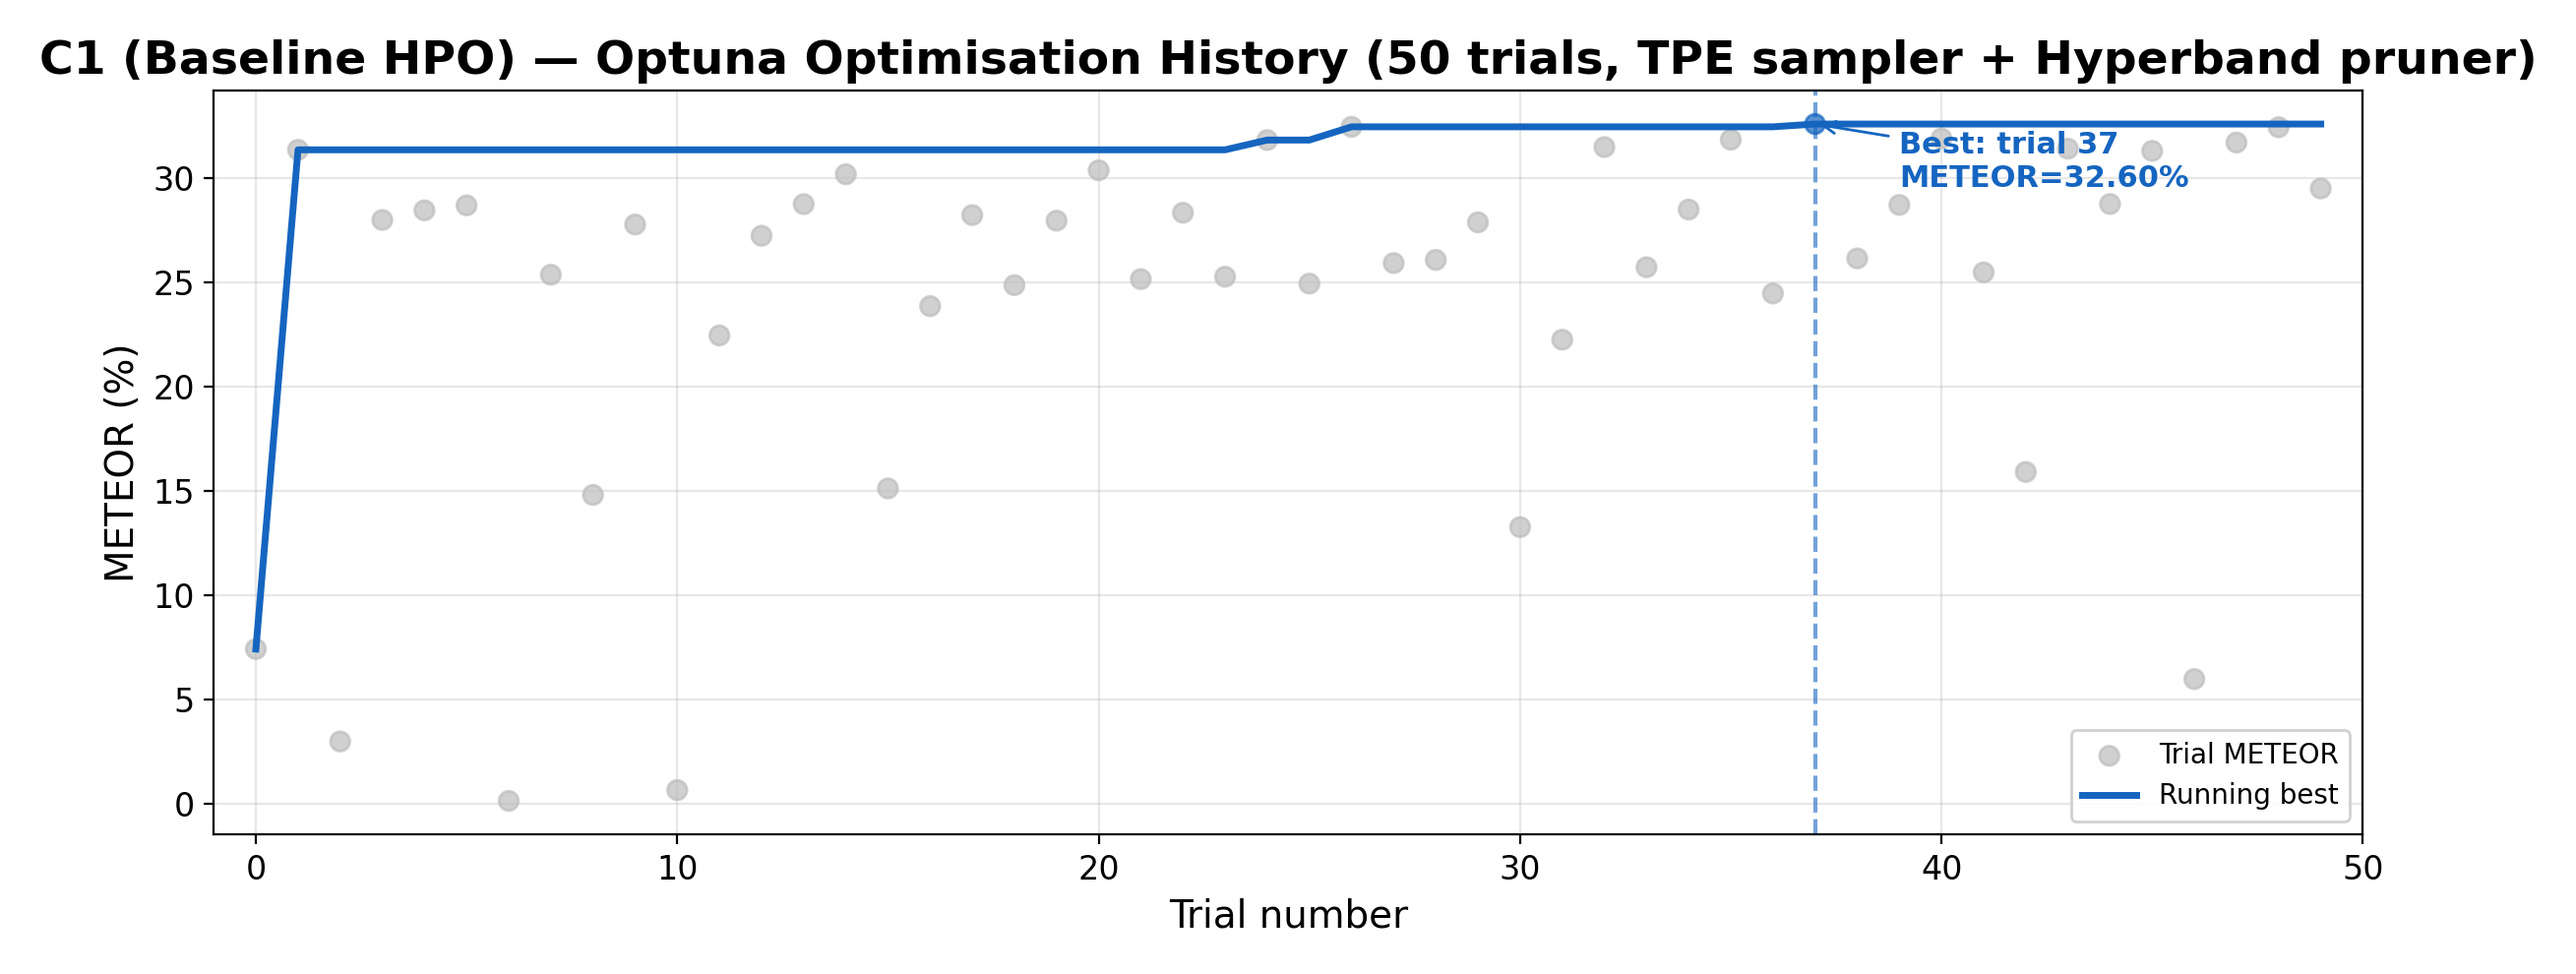
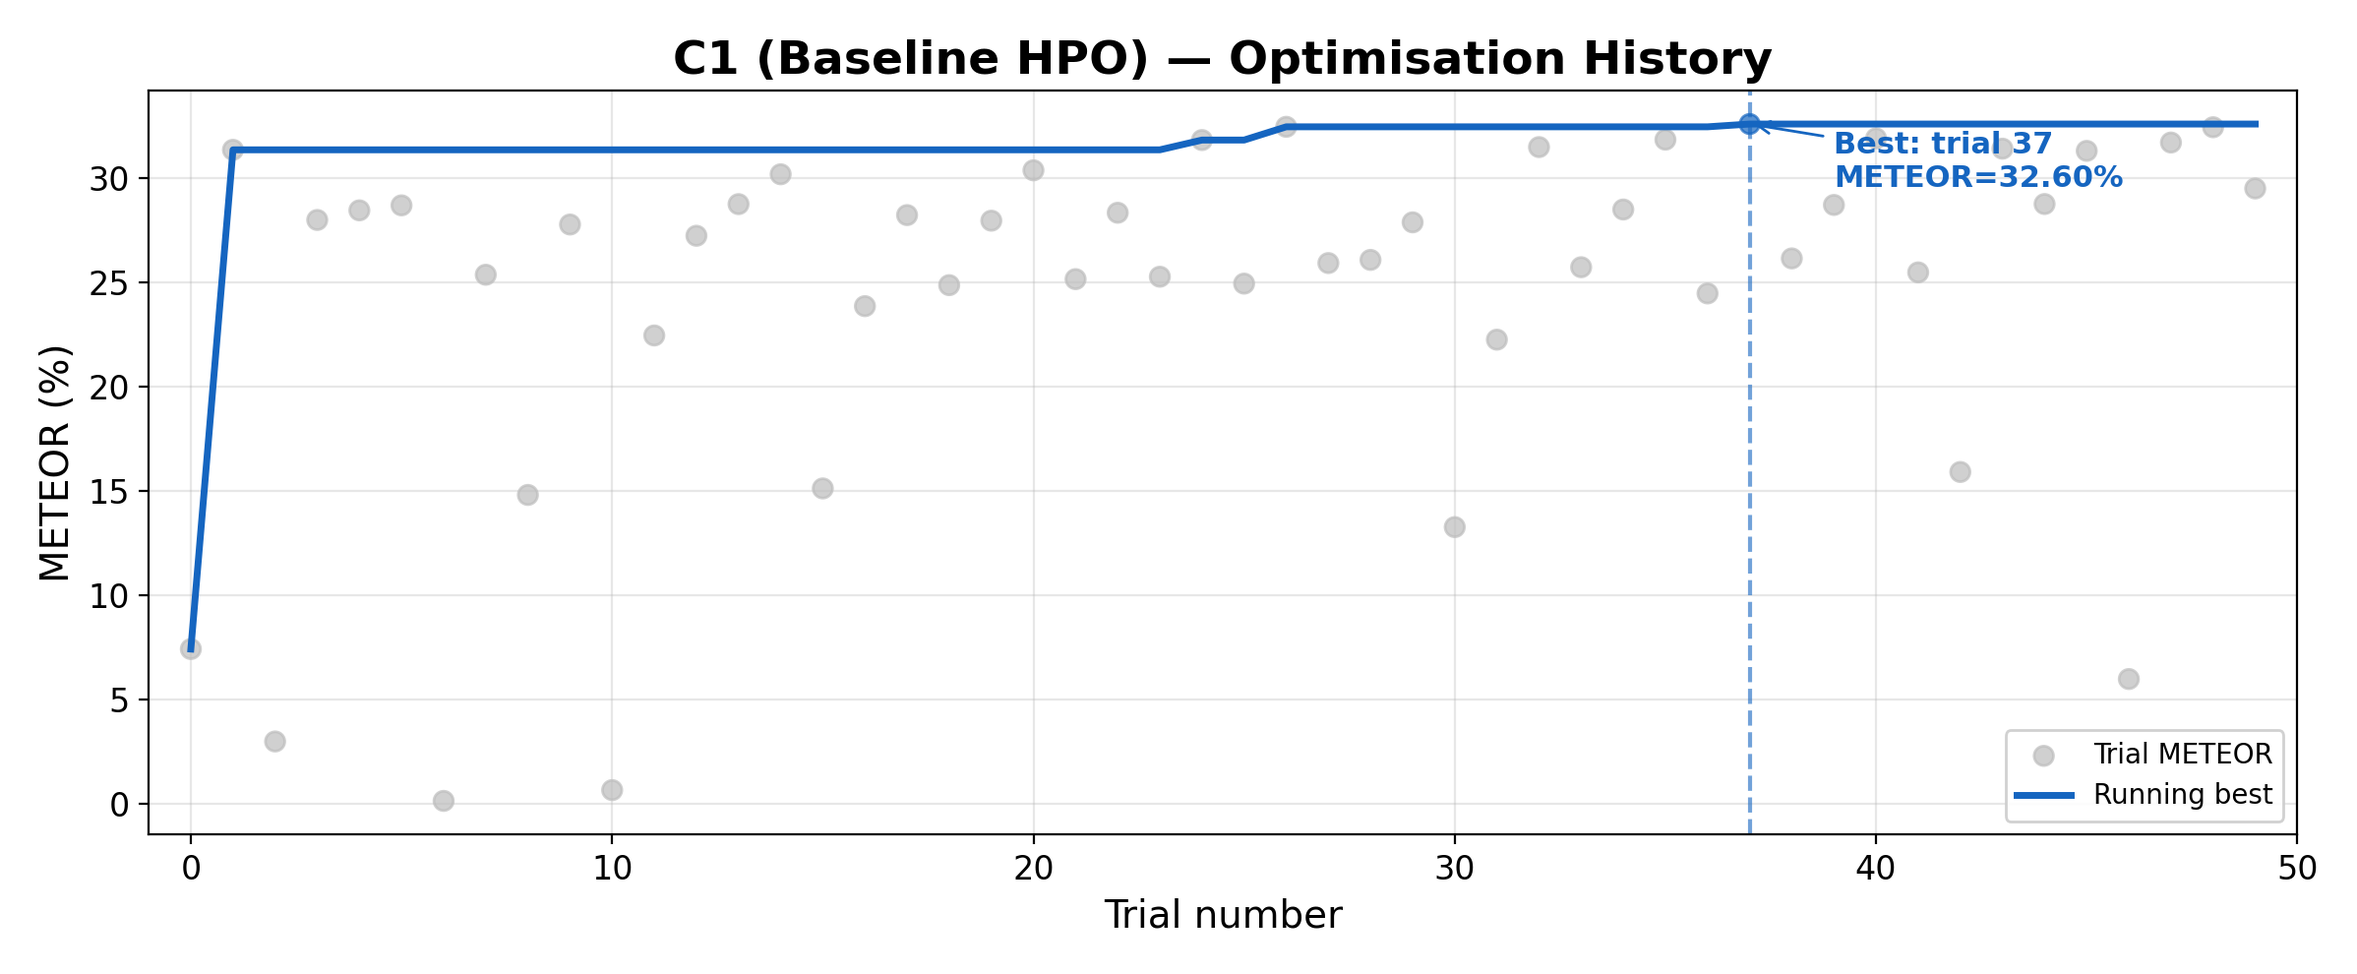
feat: update plots

diff --git a/src/generate_hpo_plots.py b/src/generate_hpo_plots.py
@@ -292,7 +292,7 @@ def plot_hpo_history(trials: list[dict], study_name: str, best_trial: int,
 
     ax.set_xlabel("Trial number")
     ax.set_ylabel("METEOR (%)")
-    ax.set_title(f"{study_name} — Optuna Optimisation History (50 trials, TPE sampler + Hyperband pruner)")
+    ax.set_title(f"{study_name} — Optimisation History")
     ax.legend(loc="lower right", fontsize=10)
     ax.set_xlim(-1, len(trials))
     fig.tight_layout()
